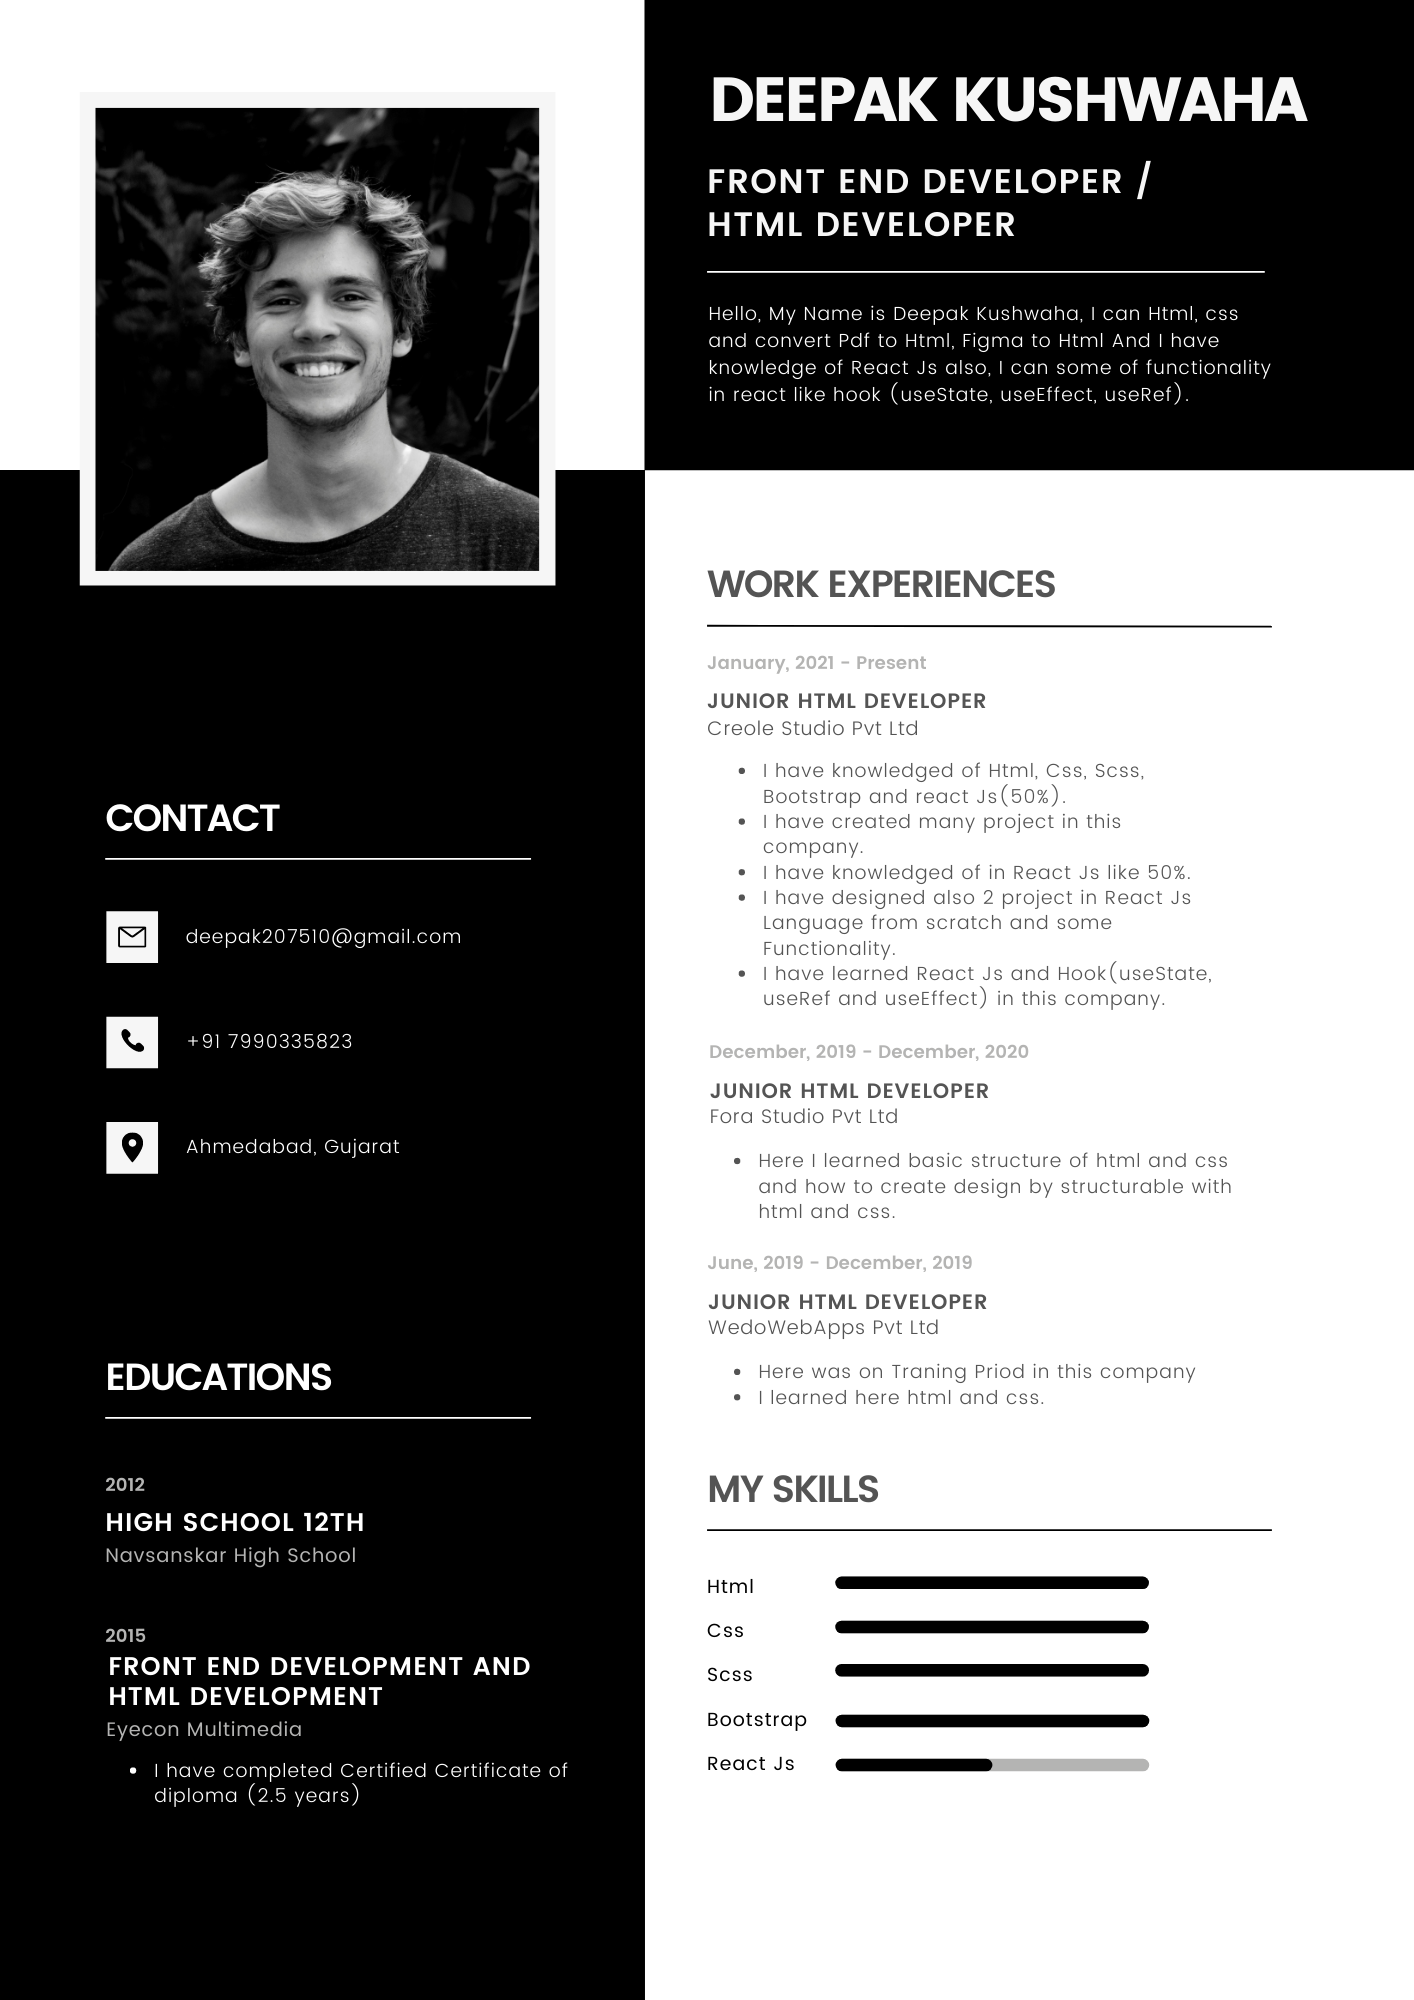
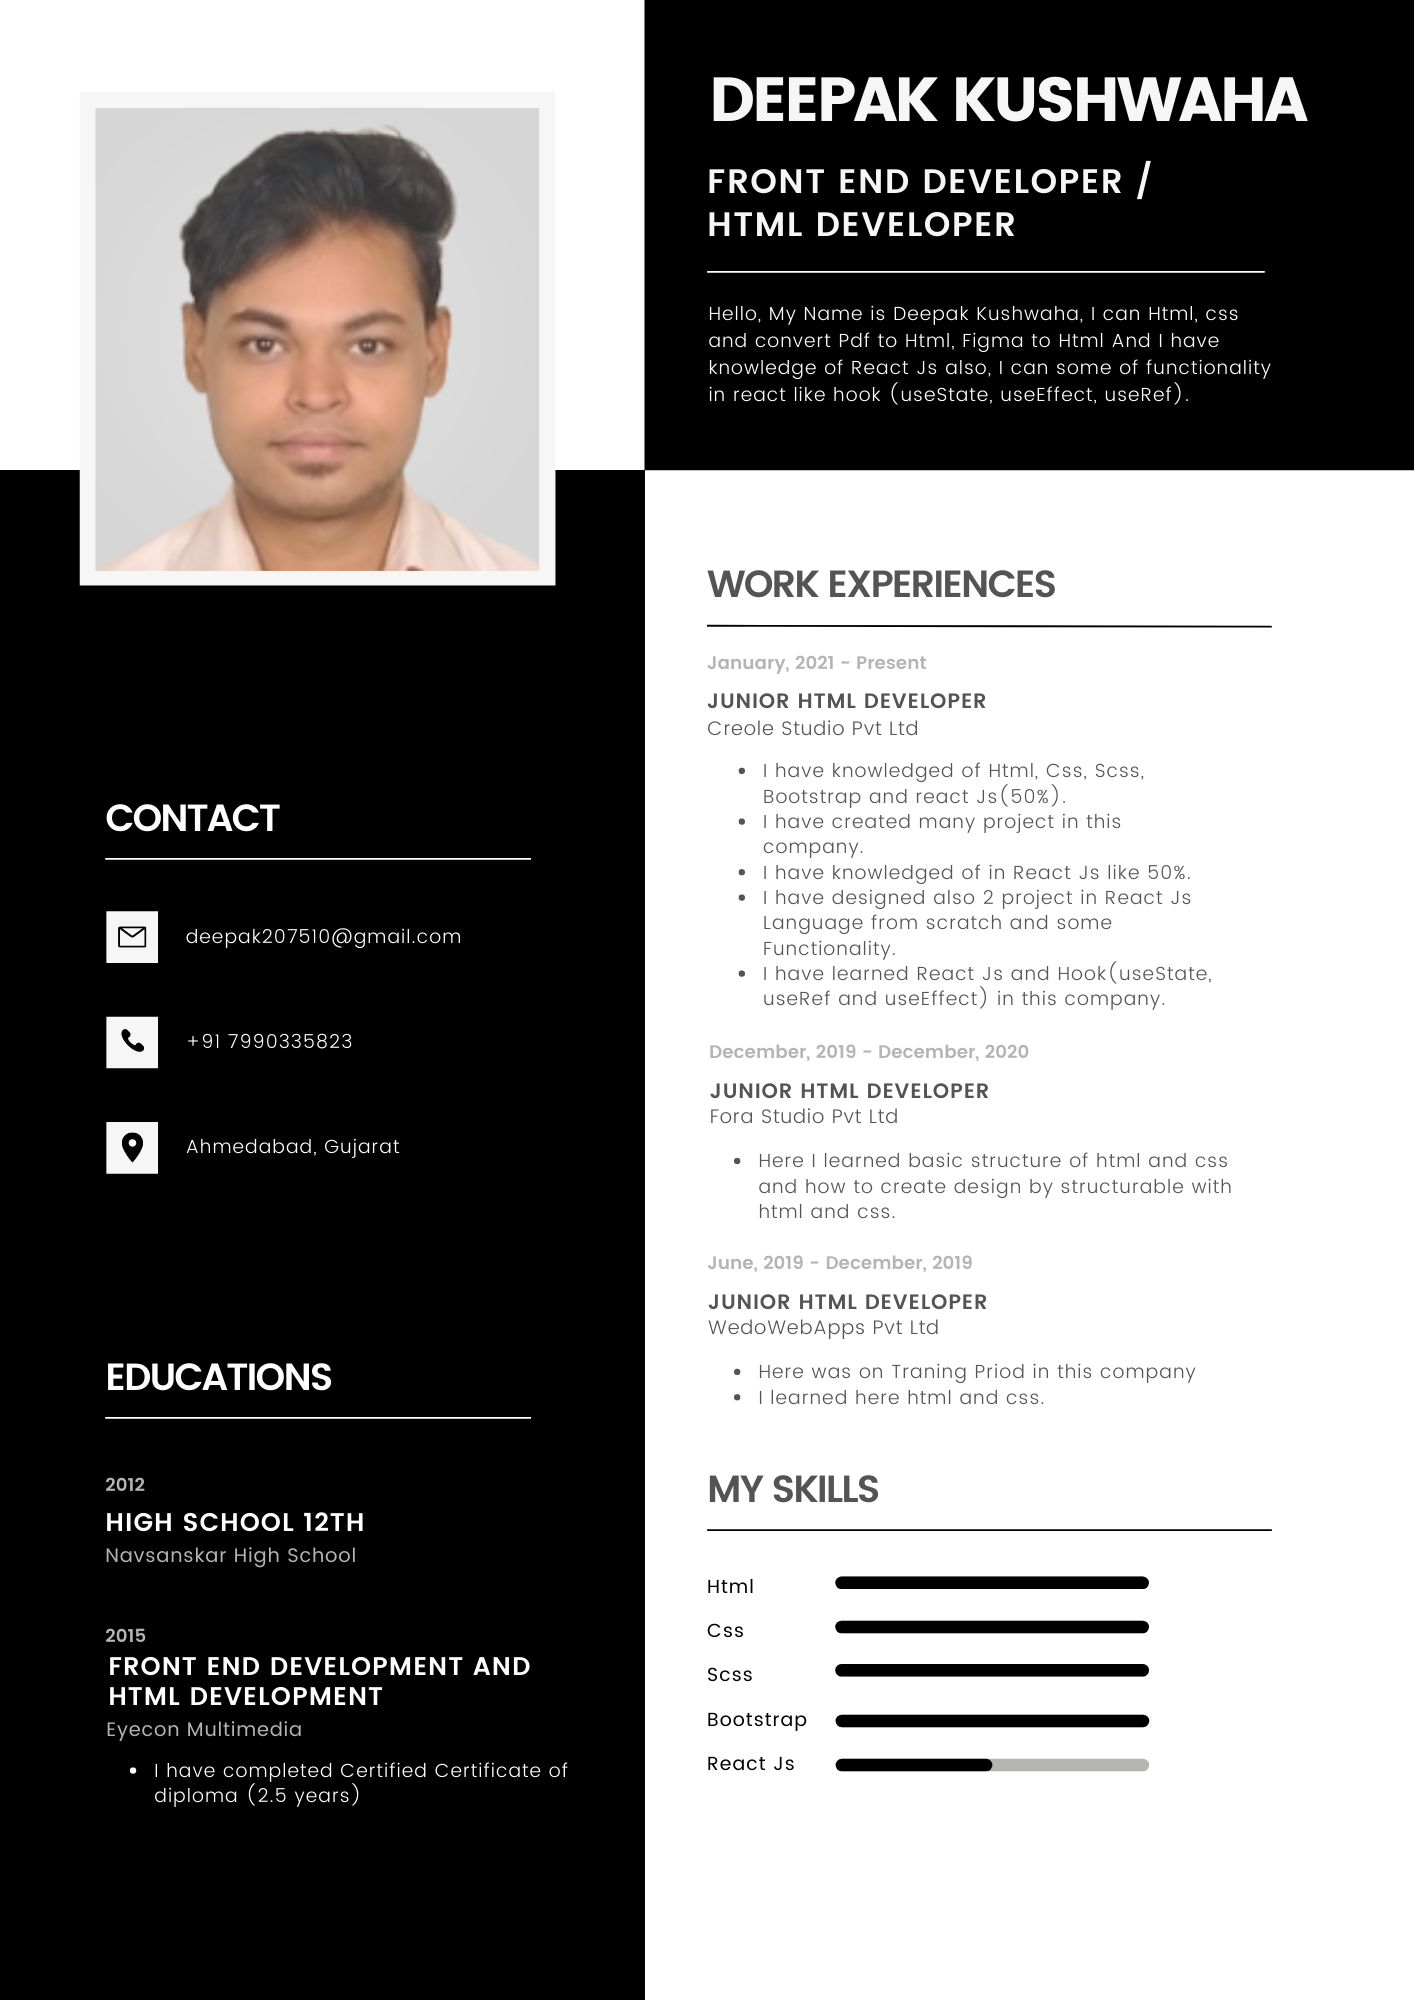
second commits

Changed region(s): [[0.0622, 0.031, 0.4045, 0.31]]

diff --git a/src/containers/Footer/Footer.styles.js b/src/containers/Footer/Footer.styles.js
@@ -31,18 +31,20 @@ export const FooterWrapper = styled.div`
   }
   .footer-logo {
     margin-bottom: 15px;
-    width: 150px;
+    width: 100px;
     @media screen and (max-width: 1600px) {
-      width: 150px;
+      width: 100px;
       margin-bottom: 10px;
     }
     @media screen and (max-width: 1199px) {
-      width: 120px;
       margin-bottom: 10px;
     }
     @media screen and (max-width: 991px) {
       width: 100px;
       margin-bottom: 10px;
+    }
+    @media screen and (max-width: 767px) {
+      width: 80px;
     }
     @media screen and (max-width: 575px) {
       margin-bottom: 5px;

diff --git a/src/containers/Header/Header.styles.js b/src/containers/Header/Header.styles.js
@@ -224,14 +224,17 @@ export const HeaderWrapper = styled.div`
 export const HeaderLogo = styled.img`
   float: left;
   height: 100%;
-  width: 180px;
+  width: 130px;
   object-fit: contain;
   position: relative;
   z-index: 1000;
   @media screen and (max-width: 1440px) {
-    width: 150px;
+    width: 120px;
   }
   @media screen and (max-width: 991px) {
-    width: 130px;
+    width: 100px;
+  }
+  @media screen and (max-width: 767px) {
+    width: 80px;
   }
 `;

diff --git a/src/containers/Header/Header.js b/src/containers/Header/Header.js
@@ -12,7 +12,7 @@ import About from "../About/About";
 import Contact from "../Contact/Contact";
 import Portfolio from "../Portfolio/Portfolio";
 import Home from "../Home/Home";
-import logo from "../../assets/images/Rauliqbal.png";
+import logo from "../../assets/images/deepak.png";
 // import logo from "../../assets/images/deepak.png";
 import { useLocation } from "react-router";
 

diff --git a/src/containers/GetCv/GetCvBlock.js b/src/containers/GetCv/GetCvBlock.js
@@ -1,6 +1,6 @@
 import React from "react";
 import { CvAvatar, GetCvBlockWrapper } from "./GetCv.styles";
-import avatarImg from "../../assets/images/portfolio2.png";
+import avatarImg from "../../assets/images/user.png";
 import { CustomButton, Title } from "../../assets/styles/Global.styles";
 import { Progress } from "antd";
 import { AimOutlined } from "@ant-design/icons";

diff --git a/src/containers/Footer/Footer.js b/src/containers/Footer/Footer.js
@@ -1,6 +1,6 @@
 import React from "react";
 import { FooterWrapper } from "./Footer.styles";
-import footerLogo from "../../assets/images/Rauliqbal.png";
+import footerLogo from "../../assets/images/deepak.png";
 import { Link } from "react-router-dom";
 
 const Footer = () => {
